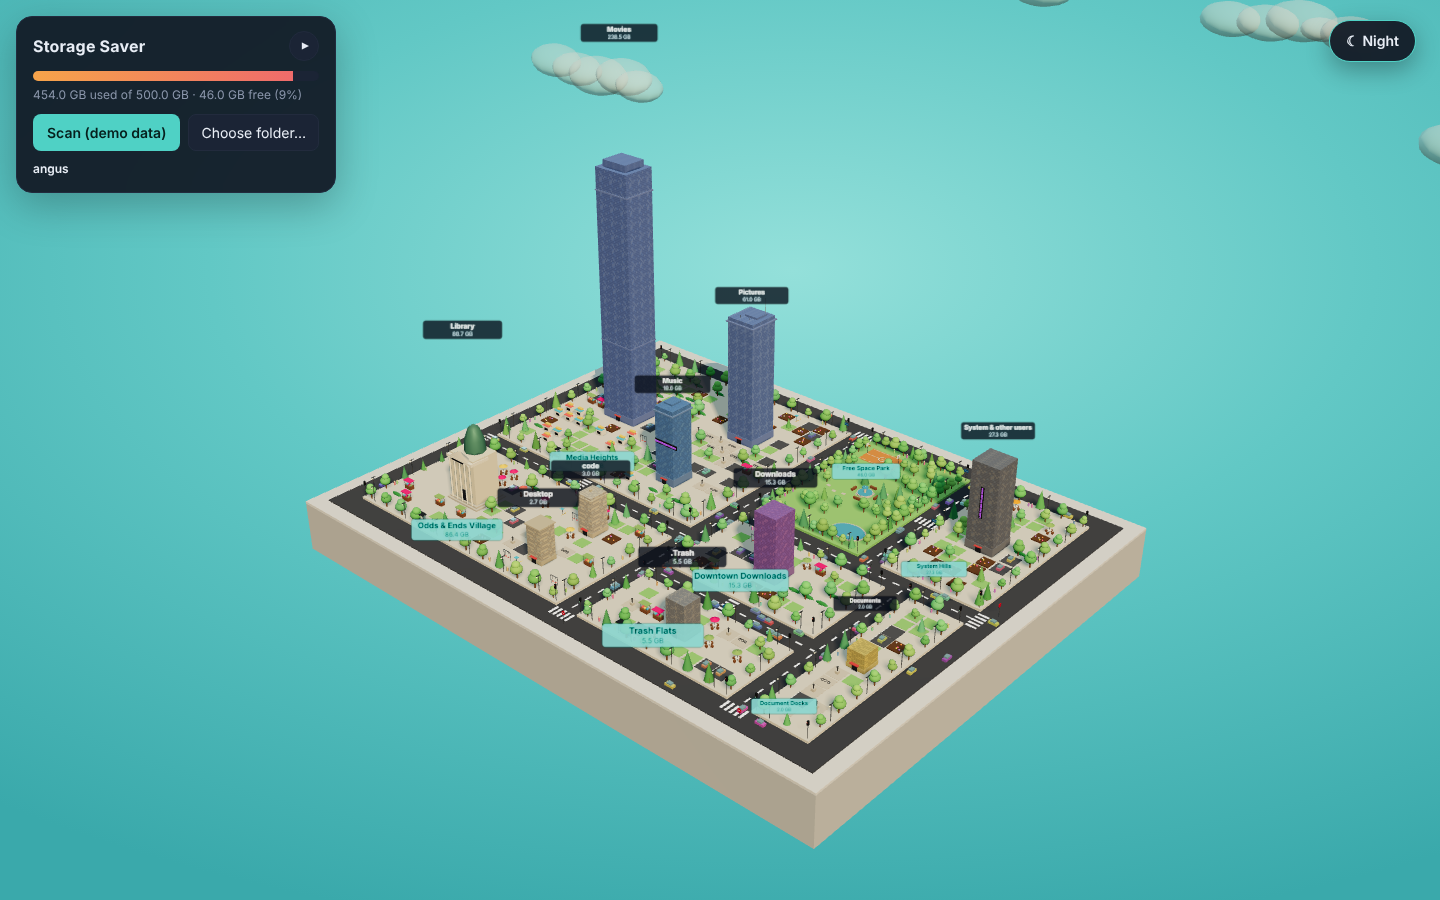
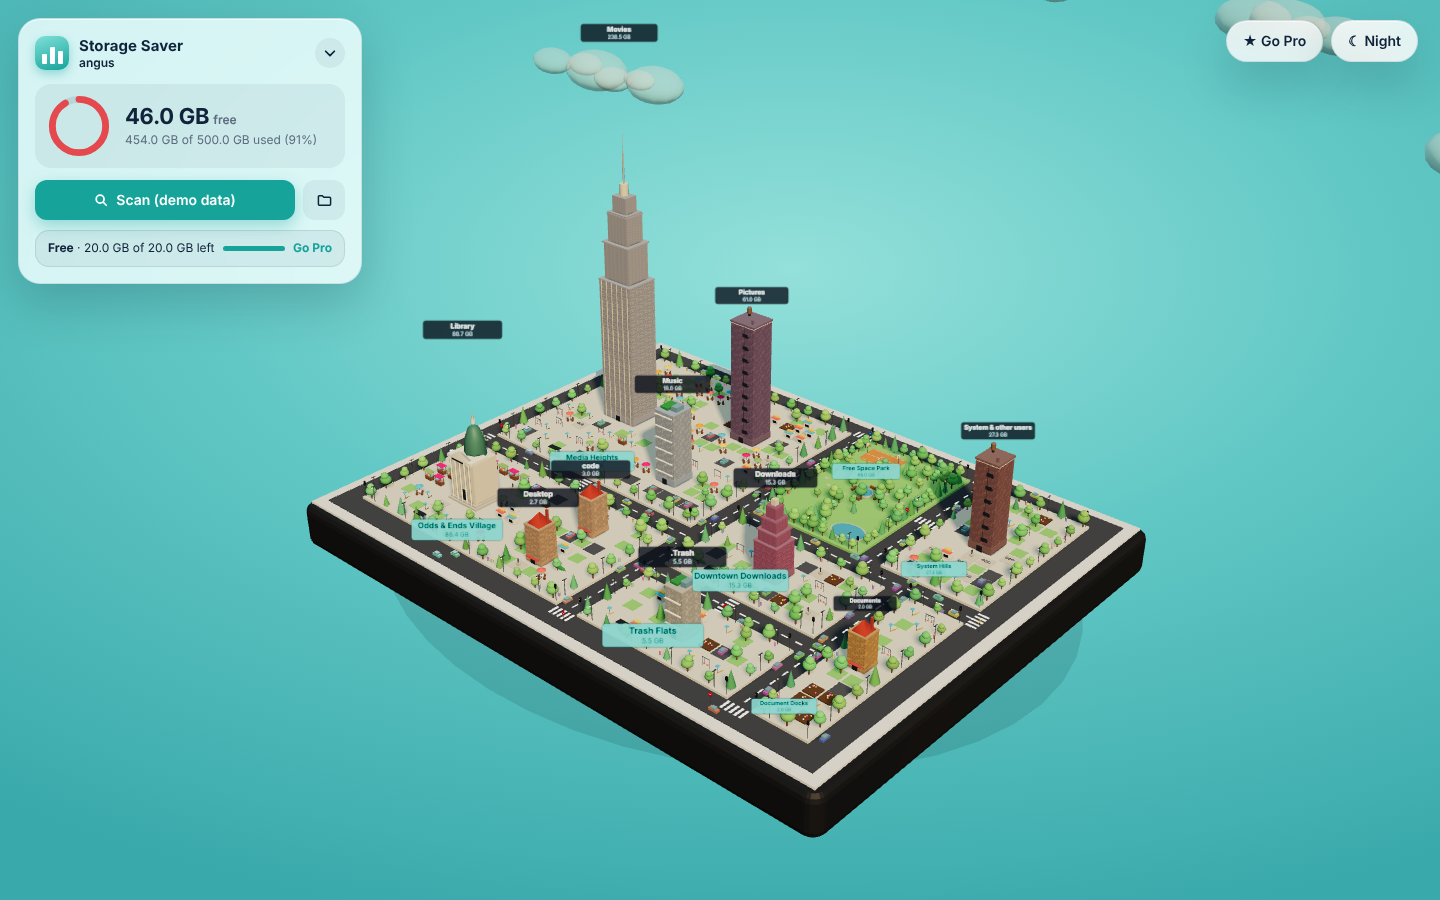
Distinct building styles per item (Art Deco, Chrysler, stepped, brick, glass, twin, modern, civic, shop) and a dark bevelled plinth
Claude-Session: https://claude.ai/code/session_01S4hEwfN8N2XMNniWz1wTJB

diff --git a/src/renderer/app.js b/src/renderer/app.js
@@ -221,13 +221,36 @@ nightOnly.push(moonGlow);
 // The plinth: a chunky grey base; its top is the asphalt the districts sit on.
 const city = new THREE.Group();
 scene.add(city);
-const plinth = new THREE.Mesh(
-  new THREE.BoxGeometry(BASE_W + 10, 10, BASE_D + 10),
-  new THREE.MeshStandardMaterial({ color: 0xc9ced4, metalness: 0.05, roughness: 0.85 })
-);
-plinth.position.y = -5;
+// Dark charcoal slab with a chamfered edge; the pale kerb sits on its rim.
+const plinthShape = new THREE.Shape();
+{
+  const hw = BASE_W / 2 + 4.2;
+  const hd = BASE_D / 2 + 4.2;
+  const r = 1.2;
+  plinthShape.moveTo(-hw + r, -hd);
+  plinthShape.lineTo(hw - r, -hd);
+  plinthShape.quadraticCurveTo(hw, -hd, hw, -hd + r);
+  plinthShape.lineTo(hw, hd - r);
+  plinthShape.quadraticCurveTo(hw, hd, hw - r, hd);
+  plinthShape.lineTo(-hw + r, hd);
+  plinthShape.quadraticCurveTo(-hw, hd, -hw, hd - r);
+  plinthShape.lineTo(-hw, -hd + r);
+  plinthShape.quadraticCurveTo(-hw, -hd, -hw + r, -hd);
+}
+const plinthGeo = new THREE.ExtrudeGeometry(plinthShape, { depth: 5.5, bevelEnabled: true, bevelThickness: 1.6, bevelSize: 1.6, bevelSegments: 3, curveSegments: 6 });
+plinthGeo.rotateX(Math.PI / 2);
+plinthGeo.translate(0, -1.6, 0); // bevel top sits at y = 0, under the kerb and asphalt
+const plinth = new THREE.Mesh(plinthGeo, new THREE.MeshStandardMaterial({ color: 0x2c3038, metalness: 0.15, roughness: 0.55 }));
 plinth.receiveShadow = true;
+plinth.castShadow = true;
 city.add(plinth);
+// Soft shadow pad under the slab so it reads as sitting on the ground.
+const padMat = new THREE.MeshBasicMaterial({ color: 0x0a2a2e, transparent: true, opacity: 0.07, depthWrite: false });
+const pad = new THREE.Mesh(new THREE.CircleGeometry(1, 48), padMat);
+pad.rotation.x = -Math.PI / 2;
+pad.scale.set(BASE_W * 0.62, BASE_D * 0.66, 1);
+pad.position.y = -7.2;
+city.add(pad);
 const asphalt = new THREE.Mesh(
   new THREE.BoxGeometry(BASE_W + 4, 0.6, BASE_D + 4),
   new THREE.MeshStandardMaterial({ color: 0x4a4f5a, roughness: 0.95 })
@@ -236,8 +259,8 @@ asphalt.position.y = 0.3;
 asphalt.receiveShadow = true;
 city.add(asphalt);
 const kerb = new THREE.Mesh(
-  new THREE.BoxGeometry(BASE_W + 10, 0.5, BASE_D + 10),
-  new THREE.MeshStandardMaterial({ color: 0xe4e7eb, roughness: 0.9 })
+  new THREE.BoxGeometry(BASE_W + 8.4, 0.5, BASE_D + 8.4),
+  new THREE.MeshStandardMaterial({ color: 0xe9ebee, roughness: 0.9 })
 );
 kerb.position.y = 0.2;
 kerb.receiveShadow = true;
@@ -635,20 +658,25 @@ function placeBuilding(r, depth, gap) {
   const landmark = landmarkFor(item);
   if (landmark === 'library') h = Math.min(h, 9);
   const mat = landmark ? new THREE.MeshStandardMaterial({ color: 0xe9e2d0, roughness: 0.85 }) : facadeMaterial(item.kind, w, h, d, Math.floor(Math.random() * 4));
+  const style = landmark ? null : styleFor(item, h, Math.min(w, d));
+  if (style) applyStyleTint(mat, style);
   const b = new THREE.Mesh(boxGeo, mat);
   b.position.set(r.x + r.w / 2, 1.1, r.y + r.h / 2);
   b.scale.set(w, 0.001, d);
+  // Stepped styles keep the main shaft short and stack tiers above it.
+  const shaft = style ? h * STYLE_SHAFT[style] : h;
   // Build-up animation: a wave sweeps across the city; each building grows
   // from the ground with a playful overshoot, and its details pop on as the
   // shaft reaches them (roofs last).
   const delay = ((b.position.x + b.position.z + BASE_W / 2 + BASE_D / 2) / (BASE_W + BASE_D)) * 0.7 + Math.random() * 0.25;
-  b.userData = { item, targetH: h, depth, build: { t: -delay, dur: 0.7 + Math.min(0.6, h / 60) }, pieces: [] };
+  b.userData = { item, targetH: shaft, depth, style, build: { t: -delay, dur: 0.7 + Math.min(0.6, h / 60) }, pieces: [] };
   b.castShadow = true;
   b.receiveShadow = true;
   blocks.add(b);
   meshes.push(b);
   activeBuilding = b;
   if (landmark === 'library') decorateLibrary(b, w, h, d, heightFor(item.size));
+  else if (style && style !== 'default') decorateStyled(b, w, h, d, style);
   else decorate(b, w, h, d);
   activeBuilding = null;
   b.userData.footprint = { x: b.position.x, z: b.position.z, w, d };
@@ -725,6 +753,170 @@ function decorateLibrary(b, w, h, d, fullH) {
   piece(coneGeo, spireMat, x, top + 2.2 + domeH * 0.5, z - d * 0.1, r * 0.3, 1.2, r * 0.3, false);
   // "LIBRARY" lettering along the entablature as a dark strip.
   piece(boxGeo, signalMat, x, top + 0.15, front + 0.95, w * 0.5, 0.3, 0.03, false);
+}
+
+
+// ---------------------------------------------------------------------------
+// Building styles: each item gets a distinct silhouette, chosen from its name
+// so it stays the same between scans. Shaft = how much of the height the
+// plain box takes; the rest is tiers, crowns and spires.
+// ---------------------------------------------------------------------------
+const STYLE_SHAFT = { default: 1, deco: 0.62, chrysler: 0.7, stepped: 0.5, glass: 1, twin: 1, brick: 1, modern: 1, civic: 1, shop: 1 };
+const STYLE_TINT = { deco: 0xf0e3c6, chrysler: 0xd9d6cc, stepped: 0xd2743f, glass: 0x4f7a9a, twin: 0x8fb0c8, brick: 0xb0553c, modern: 0xf3efe6, civic: 0xe8dcc0, shop: 0xe39a5a };
+function hashName(name) {
+  let h = 2166136261;
+  for (let i = 0; i < name.length; i++) h = Math.imul(h ^ name.charCodeAt(i), 16777619);
+  return (h >>> 0) / 4294967295;
+}
+function styleFor(item, h, minSide) {
+  const v = hashName(item.name || '');
+  const pick = (list) => list[Math.floor(v * list.length) % list.length];
+  if (h > 30 && minSide > 3) return pick(['deco', 'chrysler', 'glass', 'twin', 'stepped', 'default', 'deco']);
+  if (h > 12 && minSide > 2.2) return pick(['brick', 'stepped', 'modern', 'glass', 'default', 'brick']);
+  if (minSide > 3 && h <= 9) return pick(['civic', 'shop', 'default', 'shop']);
+  return pick(['shop', 'default', 'modern']);
+}
+function applyStyleTint(mat, style) {
+  const tint = STYLE_TINT[style];
+  if (tint === undefined) return;
+  mat.color.lerp(new THREE.Color(tint), 0.55);
+  if (style === 'glass' || style === 'twin') {
+    mat.metalness = 0.45;
+    mat.roughness = 0.3;
+  }
+}
+const terracottaRoof = new THREE.MeshStandardMaterial({ color: 0xb8432f, roughness: 0.85 });
+const limestoneMat = new THREE.MeshStandardMaterial({ color: 0xe8dfc8, roughness: 0.85 });
+const copperMat = new THREE.MeshStandardMaterial({ color: 0x5f9c8a, roughness: 0.5, metalness: 0.3 });
+
+function decorateStyled(b, w, h, d, style) {
+  const x = b.position.x;
+  const z = b.position.z;
+  const base = 1.1;
+  const shaft = h * STYLE_SHAFT[style];
+  const top = base + shaft;
+  const minSide = Math.min(w, d);
+  const trim = trimMaterial(b.material);
+  const front = z + d / 2;
+  const fm = b.material;
+  // Entrance on everything tall enough.
+  if (minSide > 1.4 && h > 5 && w > 2) {
+    piece(boxGeo, trim, x, base, z, w + 0.16, Math.min(1.4, h * 0.1), d + 0.16);
+    const doorW = Math.min(1.1, w * 0.3);
+    piece(boxGeo, darkMat, x, base + 0.02, front + 0.18, doorW, 1.1, 0.12, false);
+  }
+  if (style === 'deco') {
+    // Empire State: pilasters, three setbacks, lantern and a tall mast.
+    const n = Math.max(2, Math.floor(w / 1.3));
+    for (let i = 0; i < n; i++) {
+      const px = x - w / 2 + 0.65 + (i * (w - 1.3)) / Math.max(1, n - 1);
+      piece(boxGeo, limestoneMat, px, base, front + 0.06, 0.22, shaft, 0.1, false);
+    }
+    let y = top;
+    let cw = w;
+    let cd = d;
+    for (const [f, hh] of [[0.78, 0.16], [0.58, 0.12], [0.4, 0.07]]) {
+      piece(boxGeo, trim, x, y - 0.12, z, cw + 0.2, 0.25, cd + 0.2);
+      cw = w * f;
+      cd = d * f;
+      piece(boxGeo, fm, x, y, z, cw, h * hh, cd);
+      y += h * hh;
+    }
+    piece(cylGeo, limestoneMat, x, y, z, Math.min(1.6, minSide * 0.25), h * 0.05, Math.min(1.6, minSide * 0.25));
+    y += h * 0.05;
+    piece(cylGeo, spireMat, x, y, z, 0.3, h * 0.12, 0.3, false);
+    piece(cylGeo, spireMat, x, y + h * 0.12, z, 0.1, h * 0.08, 0.1, false);
+  } else if (style === 'chrysler') {
+    // Tapering crown of stacked arcs and a needle.
+    piece(boxGeo, trim, x, top - 0.12, z, w + 0.2, 0.25, d + 0.2);
+    let y = top;
+    let r = minSide * 0.95;
+    for (let i = 0; i < 6; i++) {
+      piece(cylGeo, spireMat, x, y, z, r, h * 0.045, r);
+      piece(cylGeo, copperMat, x, y + h * 0.045, z, r * 0.92, h * 0.012, r * 0.92, false);
+      y += h * 0.057;
+      r *= 0.78;
+    }
+    piece(coneGeo, spireMat, x, y, z, r, h * 0.08, r);
+    piece(cylGeo, spireMat, x, y + h * 0.08, z, 0.08, h * 0.06, 0.08, false);
+    // Winged ornaments at the corners.
+    for (const [sx, sz] of [[-1, -1], [1, -1], [-1, 1], [1, 1]]) piece(boxGeo, spireMat, x + (sx * w) / 2, top - 0.5, z + (sz * d) / 2, 0.5, 1.3, 0.5, false);
+  } else if (style === 'stepped') {
+    // Ziggurat of terracotta tiers.
+    let y = top;
+    let f = 0.8;
+    for (let i = 0; i < 3; i++) {
+      piece(boxGeo, trim, x, y - 0.1, z, w * (f + 0.22) + 0.1, 0.22, d * (f + 0.22) + 0.1);
+      piece(boxGeo, fm, x, y, z, w * f, h * 0.16, d * f);
+      y += h * 0.16;
+      f -= 0.2;
+    }
+    piece(boxGeo, trim, x, y - 0.1, z, w * 0.42, 0.22, d * 0.42);
+    piece(boxGeo, limestoneMat, x, y, z, w * 0.18, 1.2, d * 0.18, false);
+    piece(cylGeo, spireMat, x, y + 1.2, z, 0.08, 2.5, 0.08, false);
+  } else if (style === 'glass') {
+    // Dark-glass slab with a pale service core and a helipad.
+    piece(boxGeo, limestoneMat, x - w * 0.28, base, z - d * 0.28, w * 0.36, h * 1.06, d * 0.36);
+    piece(boxGeo, trim, x, top - 0.1, z, w + 0.12, 0.14, d + 0.12);
+    piece(discGeo, darkMat, x + w * 0.12, top, z + d * 0.12, Math.min(w, d) * 0.5, 0.12, Math.min(w, d) * 0.5, false);
+    piece(discGeo, whiteMat, x + w * 0.12, top + 0.12, z + d * 0.12, Math.min(w, d) * 0.3, 0.04, Math.min(w, d) * 0.3, false);
+    for (let yy = base + 3; yy < top - 1; yy += 3.2) piece(boxGeo, spireMat, x, yy, front + 0.04, w, 0.08, 0.06, false);
+  } else if (style === 'twin') {
+    // Two slender shafts joined by a sky bridge.
+    b.scale.x = w * 0.44;
+    b.position.x = x - w * 0.28;
+    piece(boxGeo, fm, x + w * 0.28, base, z, w * 0.44, h * 0.9, d);
+    piece(boxGeo, trim, x, base + h * 0.55, z, w * 0.2, 1.4, d * 0.5);
+    piece(boxGeo, trim, x - w * 0.28, top - 0.1, z, w * 0.44 + 0.2, 0.22, d + 0.2);
+    piece(boxGeo, trim, x + w * 0.28, base + h * 0.9 - 0.1, z, w * 0.44 + 0.2, 0.22, d + 0.2);
+    piece(cylGeo, spireMat, x - w * 0.28, top, z, 0.1, 3, 0.1, false);
+  } else if (style === 'brick') {
+    // Brick walk-up: cornice, fire escape, water tower, chimney.
+    piece(boxGeo, trim, x, top - 0.25, z, w + 0.3, 0.3, d + 0.3);
+    piece(boxGeo, limestoneMat, x, top - 0.55, z, w + 0.1, 0.12, d + 0.1, false);
+    if (w > 2.4) {
+      const fx = x + w * 0.22;
+      for (let yy = base + 2.6; yy < top - 1.5; yy += 2.6) {
+        piece(boxGeo, darkMat, fx, yy, front + 0.35, 1.3, 0.06, 0.6, false);
+        piece(boxGeo, darkMat, fx, yy + 0.06, front + 0.62, 1.3, 0.7, 0.04, false);
+        piece(boxGeo, darkMat, fx - 0.5, yy + 0.06, front + 0.35, 0.05, 2.4, 0.05, false);
+      }
+    }
+    const tx = x - w * 0.25;
+    const tz = z - d * 0.2;
+    piece(cylGeo, darkMat, tx, top, tz, 0.5, 0.6, 0.5, false);
+    piece(cylGeo, tankMat, tx, top + 0.6, tz, 0.9, 1.1, 0.9);
+    piece(coneGeo, trim, tx, top + 1.7, tz, 0.95, 0.35, 0.95);
+    piece(boxGeo, trim, x + w * 0.3, top, z + d * 0.3, 0.45, 0.9, 0.45, false);
+  } else if (style === 'modern') {
+    // White slab with balcony bands and a rooftop garden.
+    for (let yy = base + 2.4; yy < top - 0.5; yy += 2.4) piece(boxGeo, whiteMat, x, yy, front + 0.18, w * 0.92, 0.12, 0.4, false);
+    piece(boxGeo, trim, x, top - 0.1, z, w + 0.16, 0.18, d + 0.16);
+    piece(boxGeo, hedgeMat, x - w * 0.2, top, z, w * 0.4, 0.5, d * 0.6, false);
+    piece(boxGeo, glassMat, x + w * 0.25, top, z, w * 0.3, 1.0, d * 0.4, false);
+  } else if (style === 'civic') {
+    // Civic hall: colonnade, pediment and a copper dome.
+    const n = Math.max(3, Math.floor(w / 1.1));
+    for (let i = 0; i < n; i++) {
+      const cx = x - w / 2 + 0.55 + (i * (w - 1.1)) / Math.max(1, n - 1);
+      piece(cylGeo, limestoneMat, cx, base, front + 0.5, 0.3, shaft, 0.3);
+    }
+    piece(boxGeo, limestoneMat, x, top, z + d * 0.25, w + 0.4, 0.5, d * 0.5 + 1.2);
+    const ped = piece(pyramidGeo, limestoneMat, x, top + 0.5, front + 0.1, w + 0.2, 1.1, 1.4);
+    ped.scale.z = 1.4;
+    const r = Math.min(w, d) * 0.4;
+    piece(cylGeo, limestoneMat, x, top, z - d * 0.1, r * 1.1, 1.0, r * 1.1);
+    const dome = piece(sphereGeo, copperMat, x, top + 1.0 - r * 0.2, z - d * 0.1, r * 2, r * 2.2, r * 2);
+    dome.castShadow = true;
+    piece(cylGeo, spireMat, x, top + 1.0 + r * 0.9, z - d * 0.1, 0.1, 1.2, 0.1, false);
+  } else if (style === 'shop') {
+    // Shopfront with a hipped terracotta roof and a chimney.
+    piece(boxGeo, trim, x, top - 0.12, z, w + 0.2, 0.15, d + 0.2);
+    const roof = piece(pyramidGeo, terracottaRoof, x, top, z, w * 1.15, Math.min(2.4, minSide * 0.6), d * 1.15);
+    roof.castShadow = true;
+    piece(boxGeo, brickMat, x + w * 0.3, top, z - d * 0.2, 0.4, Math.min(2.4, minSide * 0.6) + 0.5, 0.4, false);
+    if (w > 2) piece(boxGeo, awningMat, x, base + 1.15, front + 0.25, Math.min(w * 0.8, 3), 0.1, 0.6);
+  }
 }
 
 function decorate(b, w, h, d) {
